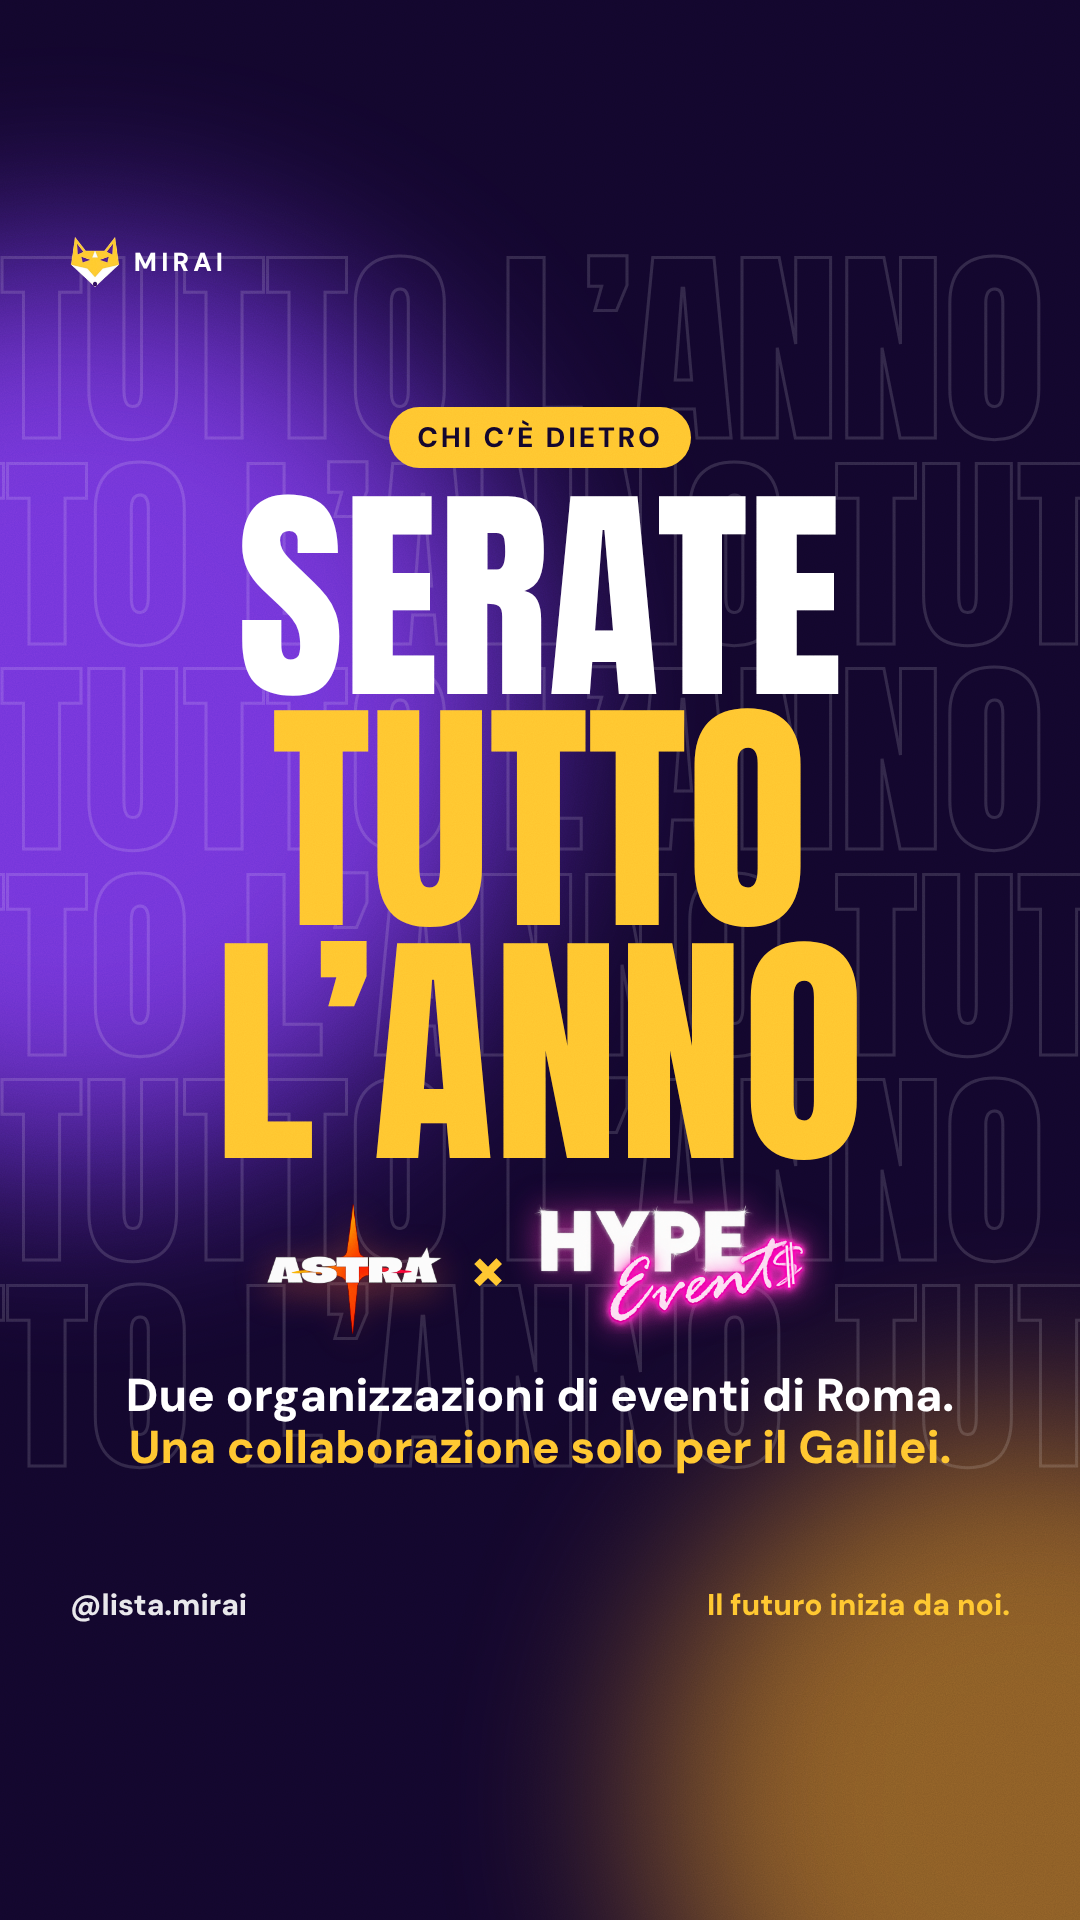
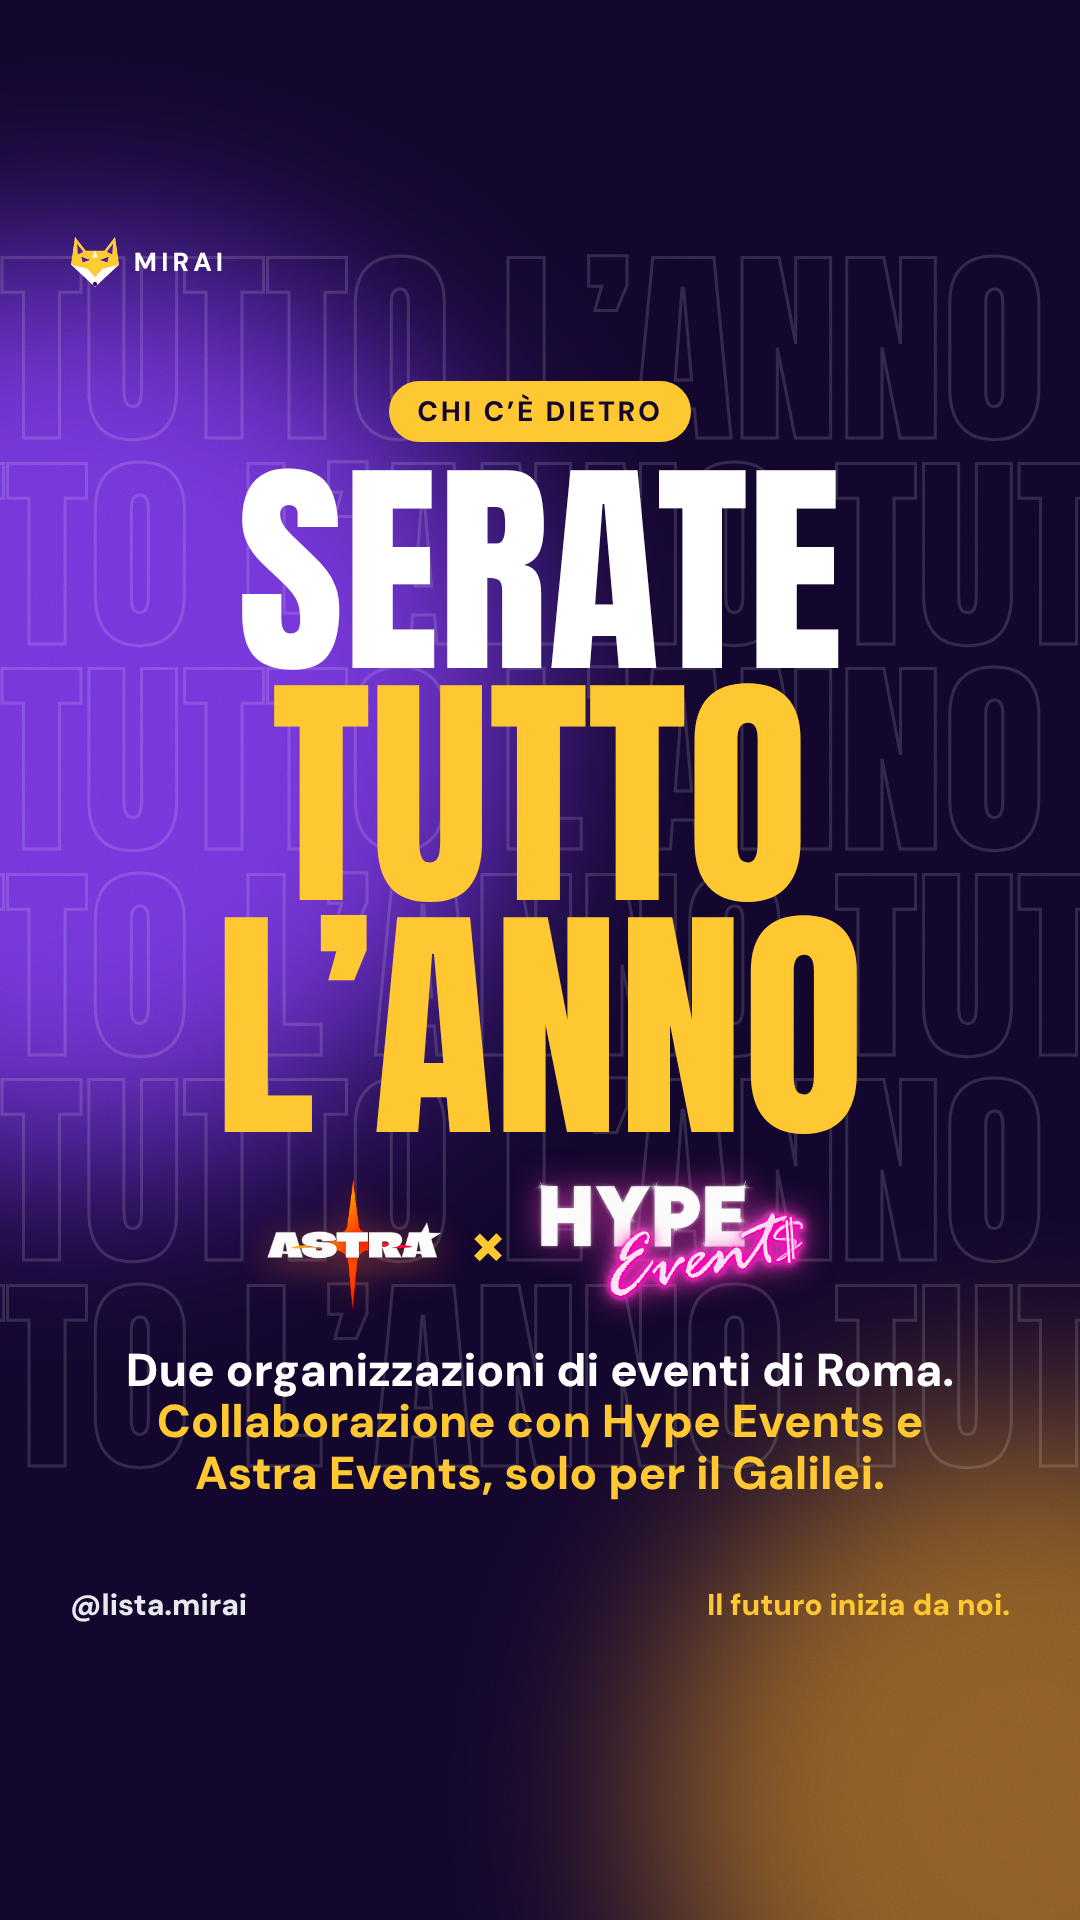
Storie eventi: dicitura 'Collaborazione con Hype Events e Astra Events'
Claude-Session: https://claude.ai/code/session_01GjWaSYZkqZzSe8a8dDrV6x

Changed region(s): [[0.1222, 0.4375, 0.8861, 0.7812], [0.2139, 0.1875, 0.7944, 0.4062], [0.2139, 0.4688, 0.2444, 0.5]]

diff --git a/social/collab/collab.html b/social/collab/collab.html
@@ -95,6 +95,7 @@ body{background:#000;font-family:"DM Sans",sans-serif}
    <div class="h A"><div class="w" data-box="900" data-max="230">Serate</div><div class="g" data-box="900" data-max="270">riservate</div><div class="o" data-box="900" data-max="130">al nostro istituto</div></div>
    <div class="sub" style="max-width:840px;font-size:46px">Stiamo preparando qualcosa con due organizzazioni di eventi di Roma.</div>
    <div class="lock"><img src="astra.png" alt="Astra" style="filter:drop-shadow(0 8px 18px rgba(255,110,60,.4))"><span>×</span><img src="hype.png" alt="Hype Events" style="filter:drop-shadow(0 0 16px rgba(255,60,190,.6))"></div>
+   <div style="font:800 40px/1.15 'DM Sans';text-align:center;margin-top:6px">Collaborazione con <span style="color:var(--gold)">Hype Events</span><br>e <span style="color:var(--gold)">Astra Events</span></div>
    </div>
   <div class="handle"><span>@lista.mirai</span><b>Il futuro inizia da noi.</b></div>
  </div>
@@ -107,7 +108,7 @@ body{background:#000;font-family:"DM Sans",sans-serif}
   <div class="mid" style="top:340px;bottom:380px"><span class="kick">Chi c’è dietro</span>
    <div class="h A"><div class="w" data-box="900" data-max="230">Serate</div><div class="g" data-box="900" data-max="250">tutto</div><div class="g" data-box="900" data-max="250">l’anno</div></div>
    <div class="lock" style="margin:14px 0"><img src="astra.png" alt="Astra" style="height:130px;filter:drop-shadow(0 8px 18px rgba(255,110,60,.4))"><span style="font-size:68px">×</span><img src="hype.png" alt="Hype Events" style="height:130px;filter:drop-shadow(0 0 16px rgba(255,60,190,.6))"></div>
-   <div class="sub" style="max-width:860px;font-size:46px">Due organizzazioni di eventi di Roma.<br><span style="color:var(--gold)">Una collaborazione solo per il Galilei.</span></div>
+   <div class="sub" style="max-width:860px;font-size:46px">Due organizzazioni di eventi di Roma.<br><span style="color:var(--gold)">Collaborazione con Hype Events e Astra Events, solo per il Galilei.</span></div>
   </div>
   <div class="handle"><span>@lista.mirai</span><b>Il futuro inizia da noi.</b></div>
  </div>
